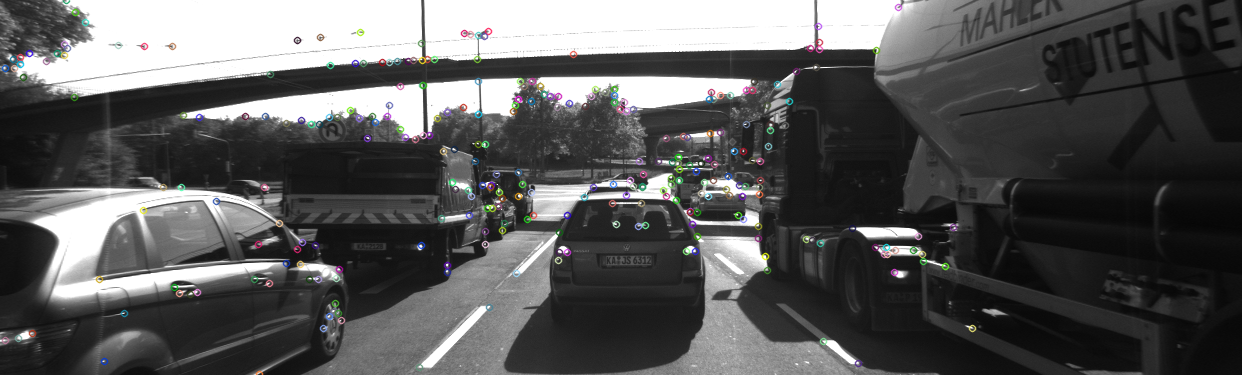
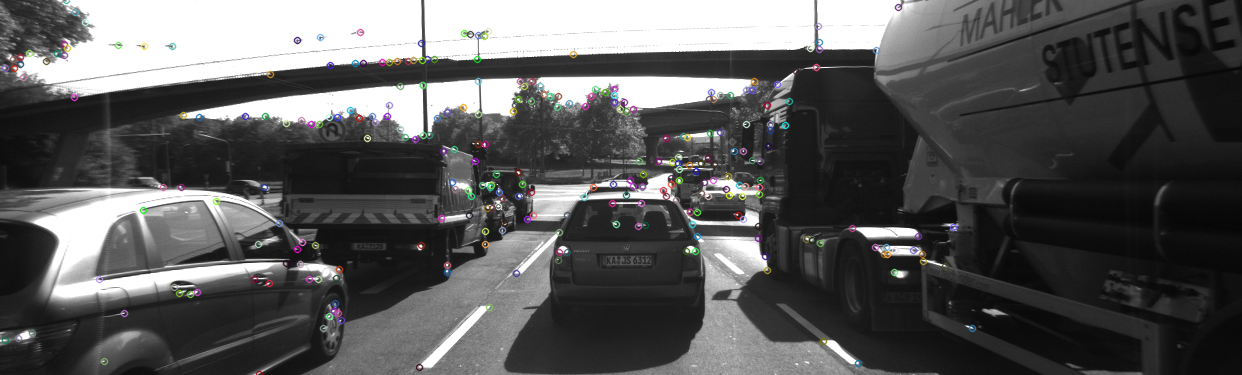
Adding image examples for keypoint detection and matching

diff --git a/README.md b/README.md
@@ -18,6 +18,7 @@ This document contains the following sections:
     * [Descriptor Distance Ratio](#Descriptor-Distance-Ratio)
   * [4. Performance Evaluation](#4-performance-evaluation)
     * [Performance Evaluation 1: Number of Detected Keypoints](#performance-evaluation-1-number-of-keypoints)
+      * [Image examples showing keypoints detected by each detector](#Image-examples-showing-keypoints-detected-by-each-detector)
     * [Performance Evaluation 2: Number of Matched Keypoints](#performance-evaluation-2-number-of-matched-keypoints)
     * [Performance Evaluation 3: Keypoint Detection and Descriptor Extraction Times](#performance-evaluation-3-keypoint-detection-and-descriptor-extraction)
     * [Observations](#Observations)
@@ -301,28 +302,28 @@ The `switch` statement then calls the appropriate function based on which detect
 switch (experiment.hyperparameters.keypointDetector)
 {
   case KeypointDetector::Shi_Tomasi:
-    detKeypointsShiTomasi(keypoints, imgGray, experiment.hyperparameters.visualizeImageMatches, resultLine);
+    detKeypointsShiTomasi(keypoints, imgGray, visualizeImages, saveImagesToFile, experimentResult);
     break;
   case KeypointDetector::HARRIS:
-    detKeypointsHarris(keypoints, imgGray, experiment.hyperparameters.visualizeImageMatches, resultLine);
+    detKeypointsHarris(keypoints, imgGray, visualizeImages, saveImagesToFile, experimentResult);
     break;
   case KeypointDetector::FAST:
-    detKeypointsFAST(keypoints, imgGray, experiment.hyperparameters.visualizeImageMatches, resultLine);
+    detKeypointsFAST(keypoints, imgGray, visualizeImages, saveImagesToFile, experimentResult);
     break;
   case KeypointDetector::BRISK:
-    detKeypointsBRISK(keypoints, imgGray, experiment.hyperparameters.visualizeImageMatches, resultLine);
+    detKeypointsBRISK(keypoints, imgGray, visualizeImages, saveImagesToFile, experimentResult);
     break;
   case KeypointDetector::ORB:
-    detKeypointsORB(keypoints, imgGray, experiment.hyperparameters.visualizeImageMatches, resultLine);
+    detKeypointsORB(keypoints, imgGray, visualizeImages, saveImagesToFile, experimentResult);
     break;
   case KeypointDetector::AKAZE:
-    detKeypointsAKAZE(keypoints, imgGray, experiment.hyperparameters.visualizeImageMatches, resultLine);
+    detKeypointsAKAZE(keypoints, imgGray, visualizeImages, saveImagesToFile, experimentResult);
     break;
   case KeypointDetector::SIFT:
-    detKeypointsSIFT(keypoints, imgGray, experiment.hyperparameters.visualizeImageMatches, resultLine);
-    break;
+    detKeypointsSIFT(keypoints, imgGray, visualizeImages, saveImagesToFile, experimentResult);
+      break;
   default:
-      cerr << "*** Not using a specified keypoint detector" << endl;
+      cerr << "Attempting to use an unsupported keypoint detector" << endl;
 }
 ```
 
@@ -455,6 +456,26 @@ For a more detailed analysis of what is happening image-by-image, the following 
 
 ![](results/NumberOfKeypointsPerImage.png)
 
+#### Image examples showing keypoints detected by each detector
+The following diagrams show an example of each detector's results from detecting keypoints on the same image.
+
+##### Shi-Tomasi
+![](results/images/keypoint_detections/Shi_Tomasi_Corner_Detection_Results.png)
+##### Harris
+![](results/images/keypoint_detections/Harris_Corner_Detection_Results.png)
+##### FAST
+![](results/images/keypoint_detections/FAST_Keypoint_Detection_Results.png)
+##### BRISK
+![](results/images/keypoint_detections/BRISK_Keypoint_Detection_Results.png)
+##### ORB
+![](results/images/keypoint_detections/ORB_Keypoint_Detection_Results.png)
+##### AKAZE
+![](results/images/keypoint_detections/AKAZE_Keypoint_Detection_Results.png)
+##### SIFT
+![](results/images/keypoint_detections/SIFT_Keypoint_Detection_Results.png)
+
+
+
 ### Performance Evaluation 2: Number of Matched Keypoints
 
 Count the number of matched keypoints for all 10 images using all possible combinations of detectors and descriptors. In the matching step, the BF approach is used with the descriptor distance ratio set to 0.8.
@@ -556,7 +577,26 @@ Based on the performance evaluation and observations above, these are the top 3 
 
 This assumes that speed of execution is a higher priority than number of matched keypoints, as long as we have sufficient matched keypoints for accuracy.
 
-If more matches were a higher priority, then I would swap ORB + BRIEF with ORB + BRISK. ORB + BRIEF executes roughly 4.5 ms faster, but ORB + BRISK detects 206 keyopints more than ORB + BRIEF. 
+
+The following images show how these detector-descriptor combinations produce keypoint matches on the preceding vehicle, using matches between image 3 and image 4 as the example in each case.
+#### FAST + BRIEF 
+
+![](results/images/keypoint_matches/FAST_BRIEF_4.png)
+
+#### FAST + BRISK
+
+![](results/images/keypoint_matches/FAST_BRISK_4.png)
+
+#### ORB + BRIEF
+
+![](results/images/keypoint_matches/ORB_BRIEF_4.png)
+
+
+If more matches were a higher priority, then I would swap ORB + BRIEF for ORB + BRISK. ORB + BRIEF executes roughly 4.5 ms faster, but ORB + BRISK detects 206 keyopints more than ORB + BRIEF.
+
+ORB + BRISK produces the following keyopint matches on the same image as those above. 
+
+![](results/images/keypoint_matches/ORB_BRISK_4.png)
 
 # Building and Running the Project
 ## Dependencies

diff --git a/ImageExamples.md b/ImageExamples.md
@@ -1,4 +1,24 @@
 # Image output examples
+
+## Keypoints detected by each detector
+The following diagrams show an example of each detector's results from detecting keypoints on the same image.
+
+### Shi-Tomasi
+![](results/images/keypoint_detections/Shi_Tomasi_Corner_Detection_Results.png)
+### Harris
+![](results/images/keypoint_detections/Harris_Corner_Detection_Results.png)
+### FAST
+![](results/images/keypoint_detections/FAST_Keypoint_Detection_Results.png)
+### BRISK
+![](results/images/keypoint_detections/BRISK_Keypoint_Detection_Results.png)
+### ORB
+![](results/images/keypoint_detections/ORB_Keypoint_Detection_Results.png)
+### AKAZE
+![](results/images/keypoint_detections/AKAZE_Keypoint_Detection_Results.png)
+### SIFT
+![](results/images/keypoint_detections/SIFT_Keypoint_Detection_Results.png)
+
+
 ## Examples of keypoint matches detected by each detector-descriptor pair
 ### Shi-Tomasi
 
